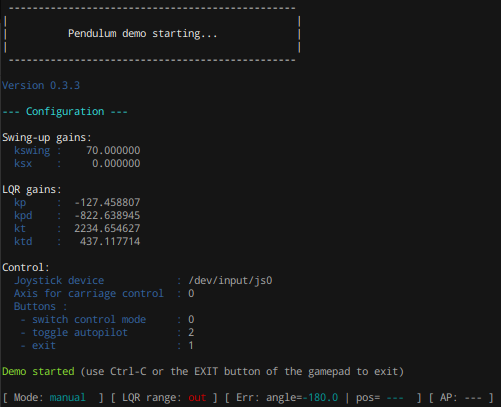
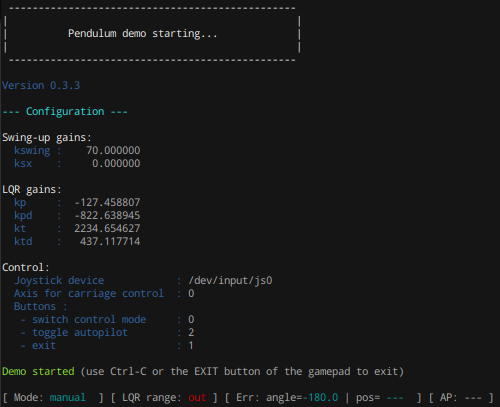
adds more end-user screenshots

diff --git a/REPLICATION.md b/REPLICATION.md
@@ -651,11 +651,13 @@ démonstrateur la plus simple et intuitive possible.
 
 ## La commande `pendulum`
 
-Elle permet de gérer simplement les actions suivantes :
+Elle encapsule l'invocation des différents exécutables fournissant :
 
-- démarrage du contrôleur de bas niveau
-- lancement de la démo
-- arrêt du contrôleur
+- les actions courantes pour l'utilisation du démonstrateur en animation :
+  - démarrage du contrôleur de bas niveau
+  - lancement de la démo
+  - arrêt du contrôleur
+- les outils de checking du matériel et de sa configuration présentés au chapitre [pendulum-core](`pendulum-core`).
 
 Elle est implémentée par le script `pendulum.sh`, contenu dans l'arborescence `$HOME/pendulum_pi`.
 
@@ -713,9 +715,9 @@ check  : runs various checks on the hardware
 La commande `pendulum` dispose de commandes supplémentaires non documentées publiquement,
 car destinées à un usage interne dans le contexte du développement.
 
-- `pendulum stable` : configure le profil actif pour utiliser les exécutables et configurations
+- `pendulum profile stable` : configure le profil actif pour utiliser les exécutables et configurations
 de l'arborescence `stable/`
-- `pendulum dev` : configure le profil actif pour exécuter la version développement, généralement
+- `pendulum profile dev` : configure le profil actif pour exécuter la version développement, généralement
 configurée dans l'arborescence `dev/` par des liens symboliques vers les artefacts produits par 
 les build CMake
 - `pendulum profile` : affiche le profil actif
@@ -723,6 +725,10 @@ les build CMake
 ### Exemples d'exécution
 
 ![low_level_interface](img/low_level_interface.png)
+
+![low_level_interface (échec démarrage)](img/low_level_interface-fail.png)
+
+![arrêt low_level_interface](img/low_level_interface-stop.png)
 
 ![demo](img/demo.png)
 
